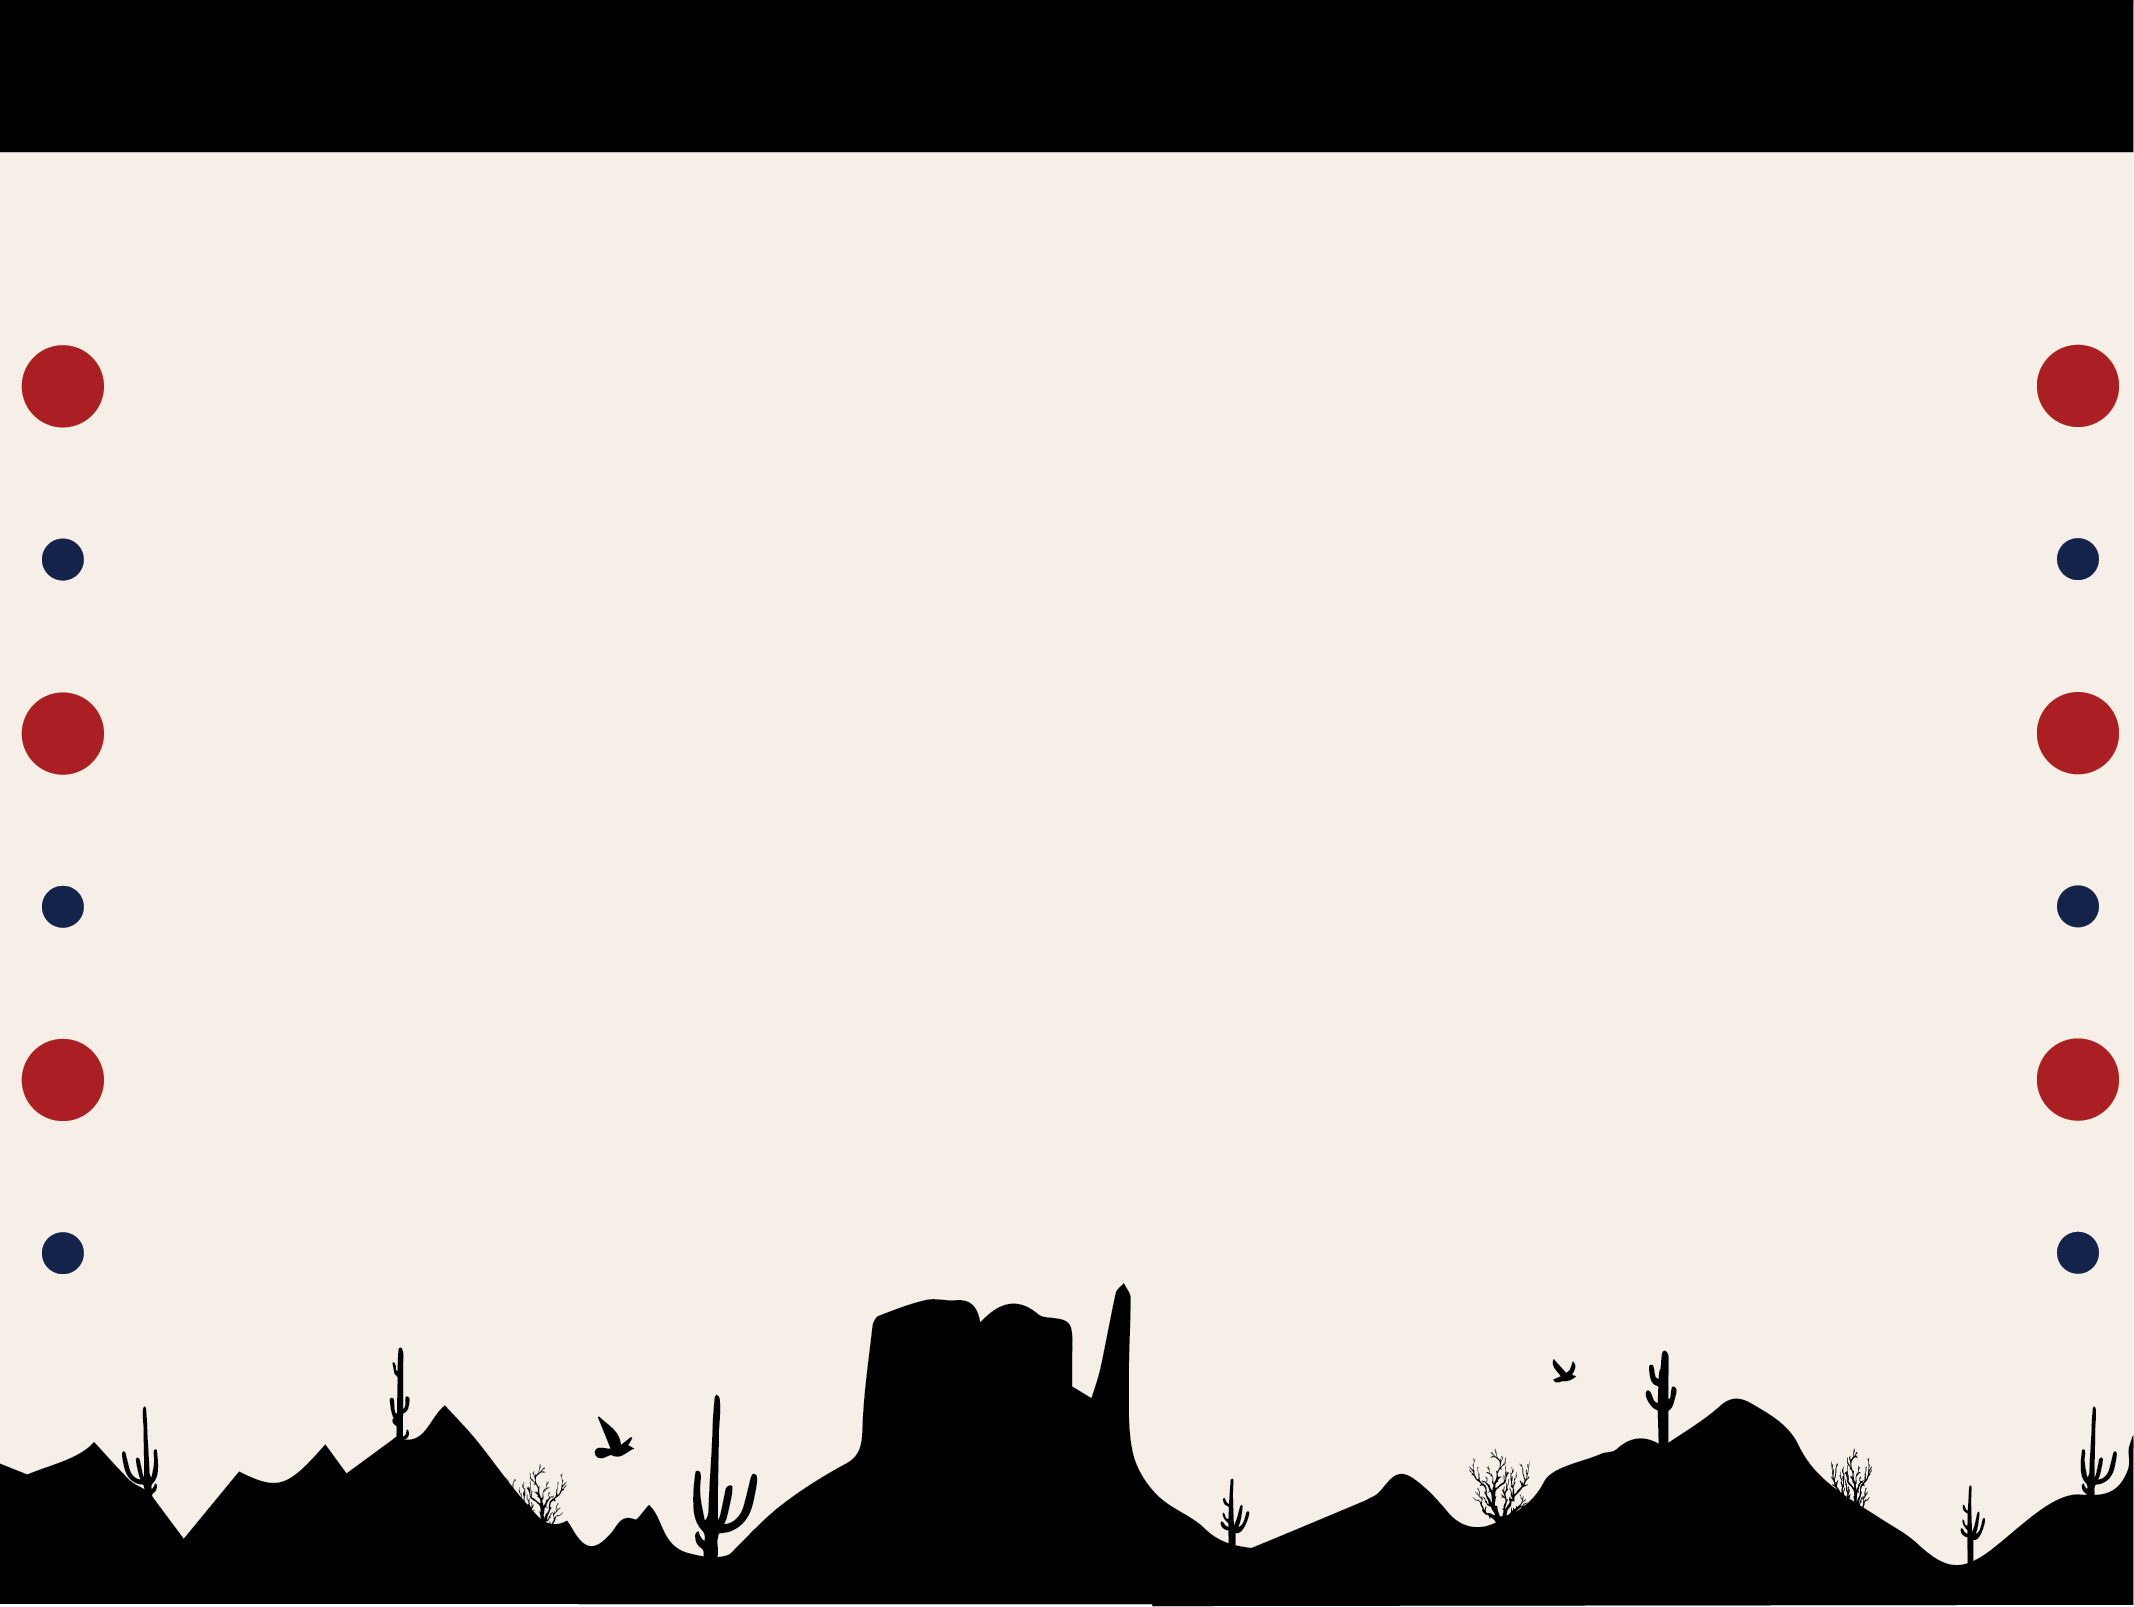
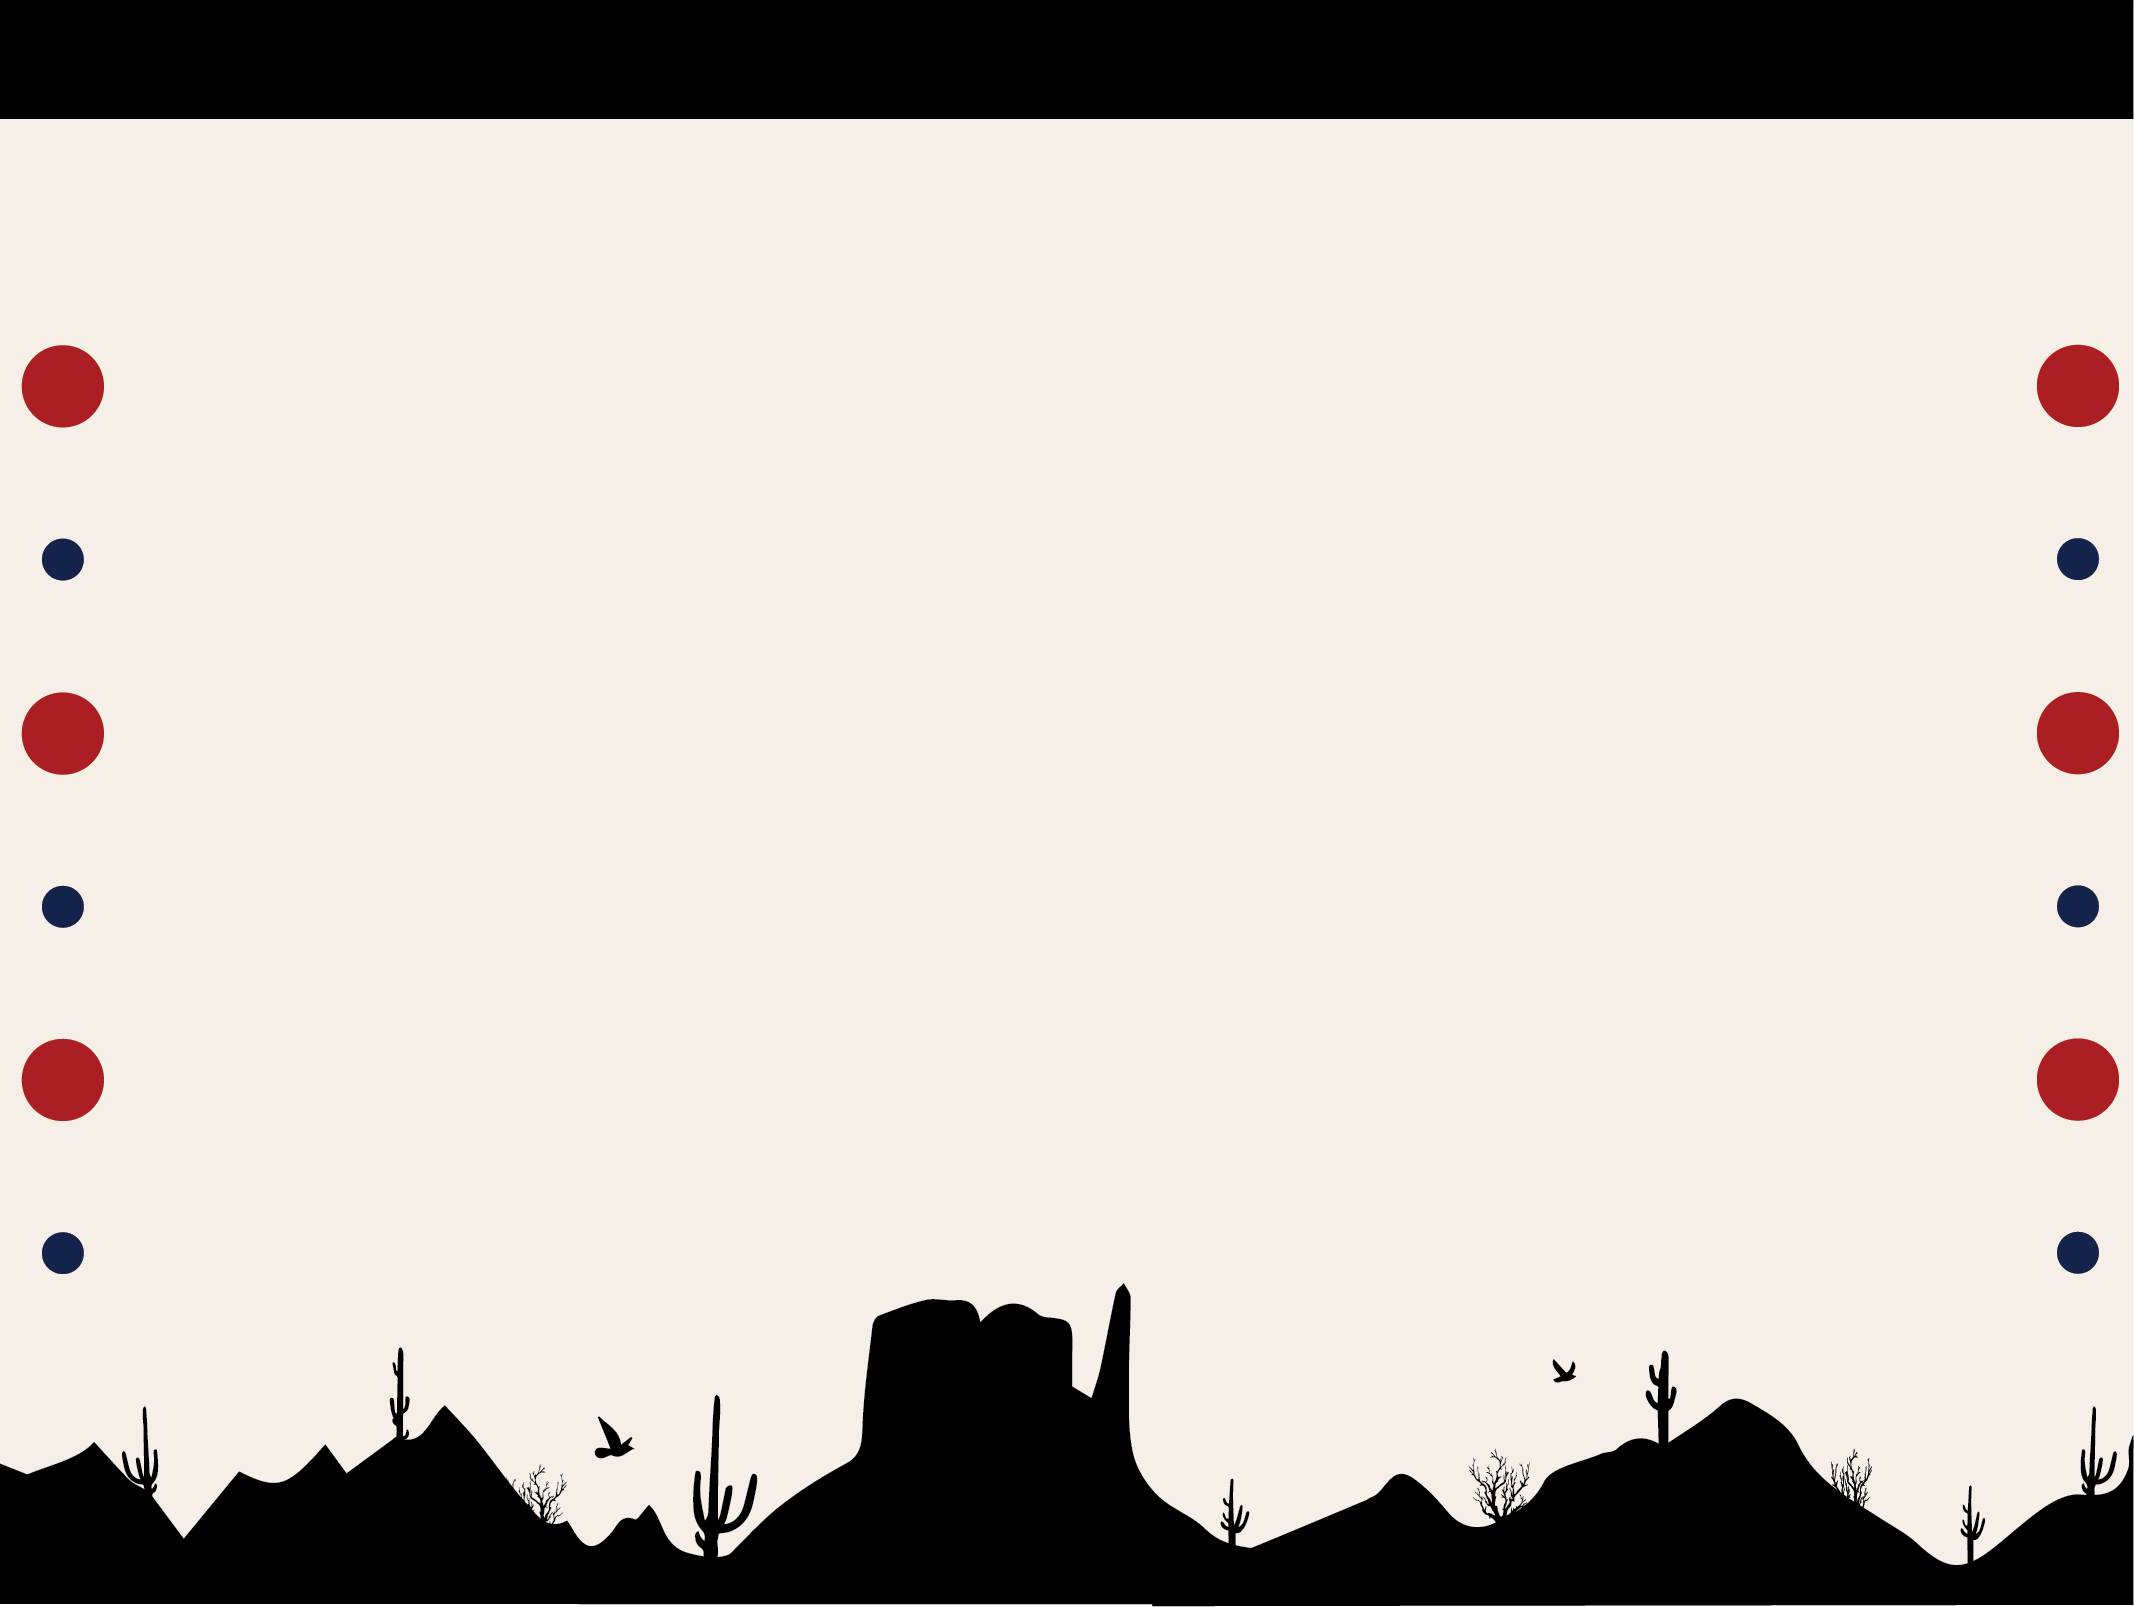
Add files via upload
fixed banner width on home page

Changed region(s): [[0.0, 0.0622, 1.0, 0.0933]]

diff --git a/page1.html b/page1.html
@@ -30,6 +30,7 @@
                         sunt in culpa qui officia deserunt mollit anim id est laborum.</p>
                 <div>
             </div>
+            <div class="footer">Created By: McKenzie Braun-Shirley, Laura Gill, Ali Jeffords, Ami Rebecca Jones, and Nour Tanbal For their 2024 LIS571 Final </div>
         </div>
 
     </body>

diff --git a/page2.html b/page2.html
@@ -30,6 +30,7 @@
                         sunt in culpa qui officia deserunt mollit anim id est laborum.</p>
                 <div>
             </div>
+            <div class="footer">Created By: McKenzie Braun-Shirley, Laura Gill, Ali Jeffords, Ami Rebecca Jones, and Nour Tanbal For their 2024 LIS571 Final </div>
         </div>
 
     </body>

diff --git a/page3.html b/page3.html
@@ -30,6 +30,7 @@
                         sunt in culpa qui officia deserunt mollit anim id est laborum.</p>
                 <div>
             </div>
+            <div class="footer">Created By: McKenzie Braun-Shirley, Laura Gill, Ali Jeffords, Ami Rebecca Jones, and Nour Tanbal For their 2024 LIS571 Final </div>
         </div>
 
     </body>

diff --git a/page4.html b/page4.html
@@ -30,6 +30,7 @@
                         sunt in culpa qui officia deserunt mollit anim id est laborum.</p>
                 <div>
             </div>
+            <div class="footer">Created By: McKenzie Braun-Shirley, Laura Gill, Ali Jeffords, Ami Rebecca Jones, and Nour Tanbal For their 2024 LIS571 Final </div>
         </div>
 
     </body>

diff --git a/page5.html b/page5.html
@@ -31,6 +31,7 @@
                         sunt in culpa qui officia deserunt mollit anim id est laborum.</p>
                 <div>
             </div>
+            <div class="footer">Created By: McKenzie Braun-Shirley, Laura Gill, Ali Jeffords, Ami Rebecca Jones, and Nour Tanbal For their 2024 LIS571 Final </div>
         </div>
 
     </body>
